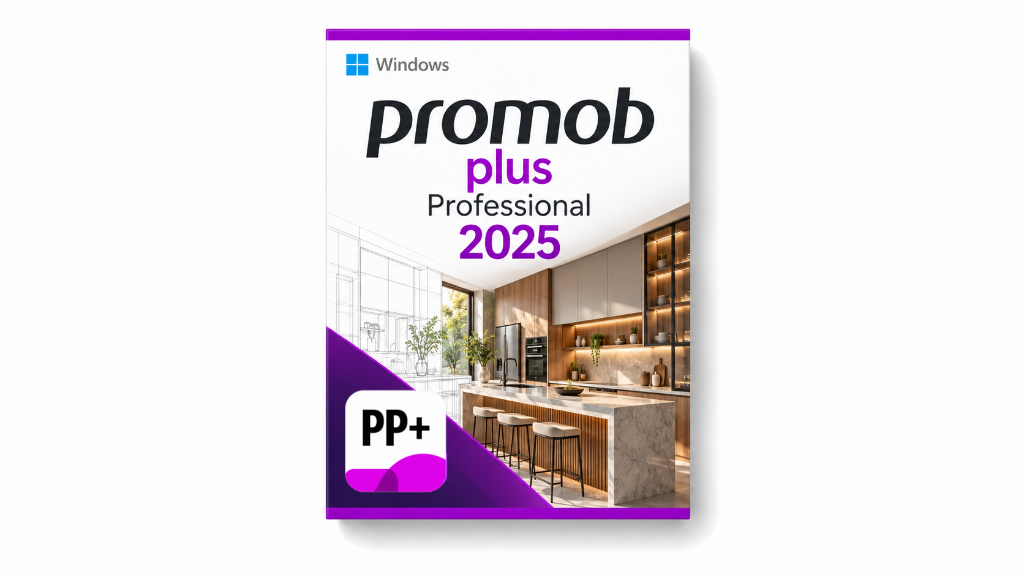
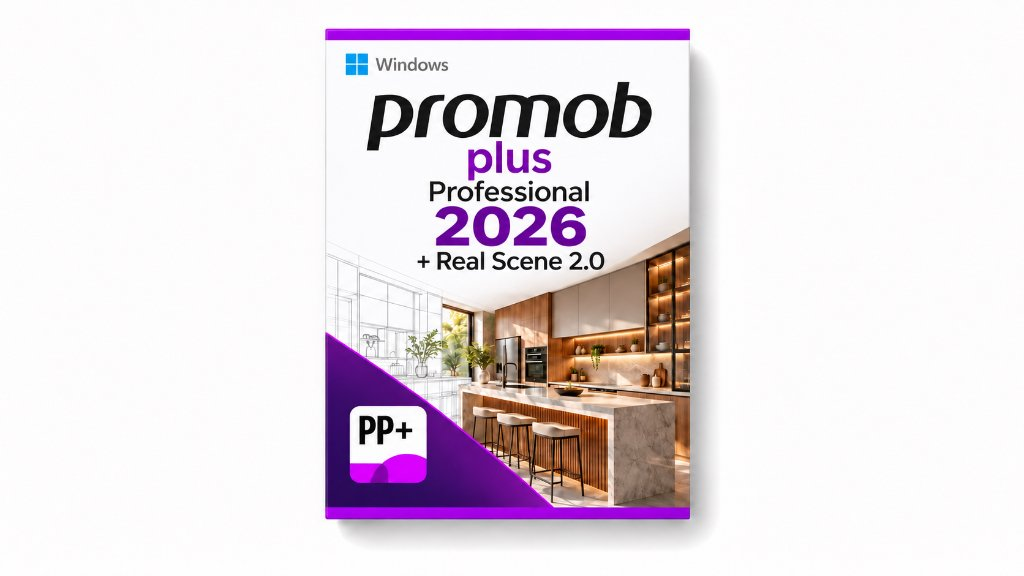
feat(catalog): lancar Promob Plus Professional 2026 v5.60.44.0 com Real Scene 2.0, Cut Pro e catalogo 3D semanal

Changed region(s): [[0.3125, 0.125, 0.6875, 0.9062], [0.3125, 0.0312, 0.6875, 0.125]]

diff --git a/src/data/products.ts b/src/data/products.ts
@@ -1167,20 +1167,20 @@ export const products: Product[] = [
   },
   {
     id: 'promob_professional_2025',
-    keywords: ['promob', 'marcenaria', 'moveis', 'planejados', 'cut pro', 'real scene', 'interiores', '2024', '2025'],
-    slug: 'promob-plus-professional-2025',
+    keywords: ['promob', 'marcenaria', 'moveis', 'planejados', 'cut pro', 'real scene', 'interiores', '2024', '2026', 'v5.60.44.0'],
+    slug: 'promob-plus-professional-2026',
     name: 'Promob Plus',
     category: 'Marcenaria e Móveis Planejados',
     compatibility: 'Windows',
-    version: '2024 Enterprise & 2025 Professional',
-    description: 'Modulação avançada de móveis planejados, planos de corte com Cut Pro e renderização Real Scene.',
-    longDescription: 'O Promob Plus é a solução profissional definitiva para marcenarias, projetistas de móveis planejados e designers de interiores. Disponível nas edições 2024 Enterprise (com Cut Pro e Real Scene 1.0) e 2025 Professional (com Cut Pro, Revest, Real Scene 2.0 e biblioteca atualizada), oferece modulação 3D completa, detalhamento técnico e geração de planos de corte com ativação vitalícia.',
+    version: '2024 Enterprise & 2026 Professional (v5.60.44.0)',
+    description: 'Modulação avançada para móveis planejados com Real Scene 2.0, Cut Pro 2026 integrado e catálogo 3D que se atualiza toda semana.',
+    longDescription: 'O Promob Plus é a solução profissional definitiva para marcenarias, projetistas de móveis planejados e designers de interiores. Disponível nas edições 2024 Enterprise (com Cut Pro e Real Scene 1.0) e a mais recente 2026 Professional v5.60.44.0 (com Real Scene 2.0, Cut Pro 2026 integrado, Revest e catálogo 3D dinâmico que se atualiza semanalmente com novas bibliotecas de acabamentos, ferragens e modulações), oferecendo detalhamento técnico completo e alta precisão para seus projetos com ativação vitalícia.',
     price: 137.90,
     originalPrice: 234.90,
     checkoutUrl: 'https://pay.cakto.com.br/fvvtpwg',
-    imageUrl: '/images/products/promob-plus-professional-2025.png',
+    imageUrl: '/images/products/promob-plus-professional-2026.png',
     ean13: '8388917966100',
-    mpn: 'PRMB-PLUS-WW2025-C2',
+    mpn: 'PRMB-PLUS-WW2026-C2',
     licenseOptions: [
       {
         quantity: 20241,
@@ -1190,30 +1190,34 @@ export const products: Product[] = [
         price: 137.90,
         originalPrice: 234.90,
         checkoutUrl: 'https://pay.cakto.com.br/fvvtpwg',
+        internationalCheckoutUrl: 'https://pay.cakto.com.br/m2hsa5x',
         downloadSlug: 'promob-plus-enterprise-2024',
         imageUrl: '/images/products/promob-enterprise-2024.png'
       },
       {
-        quantity: 20251,
-        label: 'Windows - 2025 Professional',
+        quantity: 20261,
+        label: 'Windows - 2026 Professional (v5.60.44.0)',
         platform: 'Windows',
-        year: '2025 Professional',
-        price: 307.90,
-        originalPrice: 458.00,
-        checkoutUrl: 'https://pay.cakto.com.br/i5whsbp_853381',
-        downloadSlug: 'promob-plus-professional-2025',
-        imageUrl: '/images/products/promob-plus-professional-2025.png'
+        year: '2026 Professional',
+        price: 327.90,
+        originalPrice: 489.00,
+        checkoutUrl: 'https://pay.cakto.com.br/aaddsnu',
+        internationalCheckoutUrl: 'https://pay.cakto.com.br/3bc5zyh',
+        downloadSlug: 'promob-plus-professional-2026',
+        imageUrl: '/images/products/promob-plus-professional-2026.png',
+        driveUrl: 'https://drive.google.com/drive/folders/11wI5uSksi7h_CP4fwQVDulz6hqZvEfoE?usp=sharing'
       }
     ],
     notes: 'Nota: A ativação é válida para uso vitalício local.',
     features: [
-      'Disponível nas versões 2024 Enterprise (Real Scene 1.0) e 2025 Professional (Real Scene 2.0 + Revest)',
-      'Ferramenta Cut Pro inclusa para planos de corte de chapas',
-      'Biblioteca de modulação 3D completa para marcenaria e interiores',
-      'Acesso vitalício sem mensalidades',
-      'Vídeo passo a passo de instalação incluso',
-      'Entrega automática no e-mail após o pagamento',
-      'Suporte técnico garantido por 30 dias'
+      'Disponível nas versões 2024 Enterprise e a nova 2026 Professional (v5.60.44.0)',
+      'Motor de renderização fotorrealista Real Scene 2.0 integrado',
+      'Catálogo 3D dinâmico que se atualiza semanalmente com novas bibliotecas e itens',
+      'Módulo Cut Pro 2026 integrado para otimização e plano de corte de chapas',
+      'Biblioteca de modulação 3D completa para marcenaria e design de interiores',
+      'Versão completa e funcional com acesso vitalício sem mensalidades',
+      'Instalação assistida inclusa e suporte remoto quando necessário',
+      'Entrega automática no e-mail após a confirmação do pagamento'
     ],
     requirements: {
       os: 'Windows 10 ou 11 (64-bits)',
@@ -2115,8 +2119,8 @@ export function getProductBySlug(slug: string): Product | undefined {
   if (slug === 'coreldraw-graphics-suite-2026-macos' || slug === 'coreldraw-graphics-suite' || slug === 'coreldraw') {
     return products.find(p => p.slug === 'coreldraw-graphics-suite-2026');
   }
-  if (slug === 'promob-plus-enterprise-2024' || slug === 'promob-plus' || slug === 'promob') {
-    return products.find(p => p.slug === 'promob-plus-professional-2025');
+  if (slug === 'promob-plus-enterprise-2024' || slug === 'promob-plus-professional-2025' || slug === 'promob-plus' || slug === 'promob') {
+    return products.find(p => p.slug === 'promob-plus-professional-2026');
   }
   if (slug === 'archicad-29-bra' || slug === 'archicad-28-bra' || slug === 'archicad' || slug === 'graphisoft-archicad') {
     return products.find(p => p.slug === 'archicad-30-bra');

diff --git a/src/components/Header.tsx b/src/components/Header.tsx
@@ -224,7 +224,7 @@ const MEGA_MENU_CATEGORIES: MegaMenuCategory[] = [
         title: 'Marcenaria & Móveis Planejados',
         seeAllLink: '/catalogo?categoria=Marcenaria+e+M%C3%B3veis+Planejados',
         items: [
-          { name: 'Promob Plus (2024 Enterprise e 2025 Pro)', slug: 'promob-plus-professional-2025' },
+          { name: 'Promob Plus (2024 Enterprise e 2026 Pro)', slug: 'promob-plus-professional-2026' },
           { name: 'Vectric Aspire Pro 12.5 (CNC Router)', slug: 'vectric-aspire-pro-12-5' },
           { name: 'Rhinoceros 8 3D', slug: 'rhinoceros-8' },
           { name: 'SketchUp Pro (2021 a 2026)', slug: 'sketchup-pro-2026-windows' },
@@ -244,7 +244,7 @@ const MEGA_MENU_CATEGORIES: MegaMenuCategory[] = [
       },
     ],
     featuredSlugs: [
-      'promob-plus-professional-2025',
+      'promob-plus-professional-2026',
       'rhinoceros-8',
       'proteus-9-professional',
     ],

diff --git a/src/data/internationalCheckouts.ts b/src/data/internationalCheckouts.ts
@@ -85,6 +85,7 @@ export const INTERNATIONAL_OPTION_CHECKOUTS: Record<string, string> = {
   // Promob Plus
   promob_professional_2025_20241: 'https://pay.cakto.com.br/m2hsa5x',
   promob_professional_2025_20251: 'https://pay.cakto.com.br/3f4gqjz',
+  promob_professional_2025_20261: 'https://pay.cakto.com.br/3bc5zyh',
 
   // Rhinoceros 8
   rhinoceros_8_1: 'https://pay.cakto.com.br/dgr2xz8',
@@ -160,6 +161,7 @@ export const INTERNATIONAL_SLUG_CHECKOUTS: Record<string, string> = {
 
   'promob-plus-enterprise-2024': 'https://pay.cakto.com.br/m2hsa5x',
   'promob-plus-professional-2025': 'https://pay.cakto.com.br/3f4gqjz',
+  'promob-plus-professional-2026': 'https://pay.cakto.com.br/3bc5zyh',
 
   'rhinoceros-8': 'https://pay.cakto.com.br/dgr2xz8',
   'rhinoceros-8-mac': 'https://pay.cakto.com.br/am2bfot',
